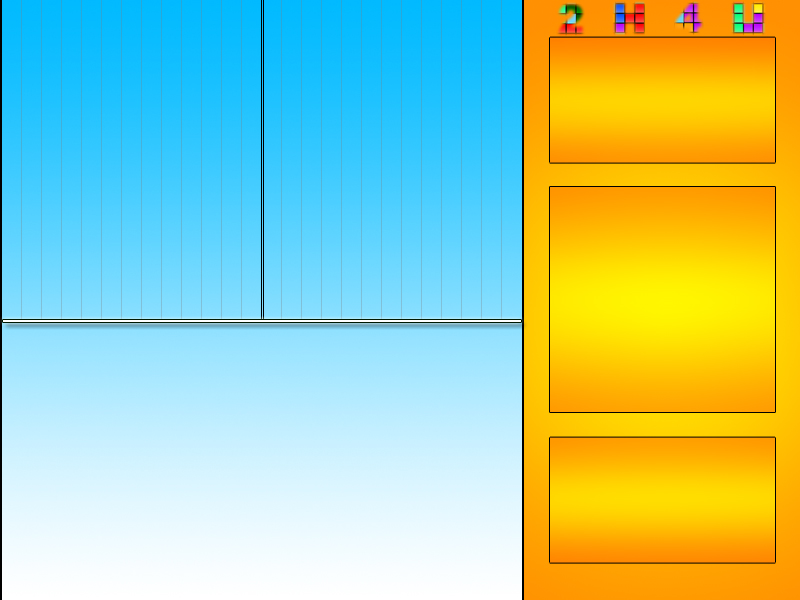
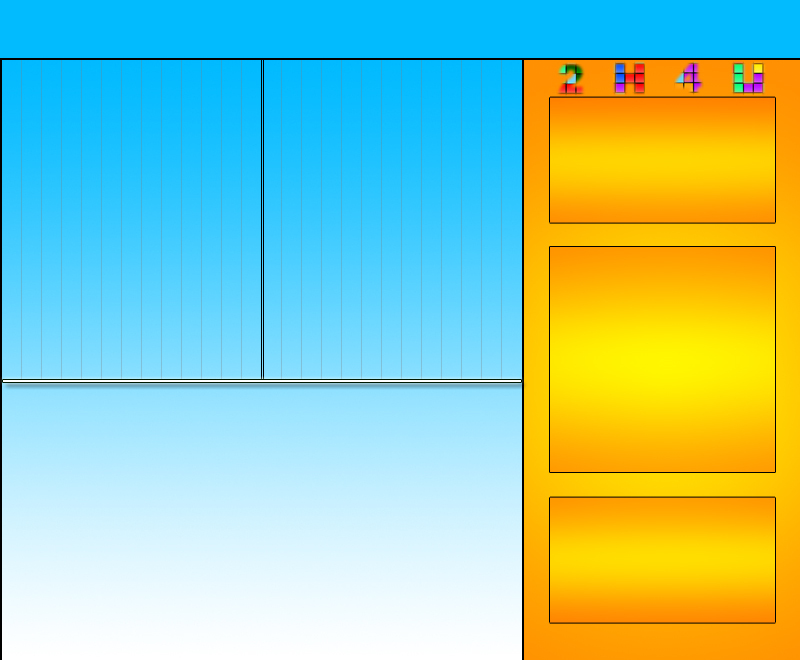
fixing stuff regarding the board size

diff --git a/toohardforyou-core/src/main/java/info/piwai/toohardforyou/core/TooHardForYouEngine.java b/toohardforyou-core/src/main/java/info/piwai/toohardforyou/core/TooHardForYouEngine.java
@@ -83,12 +83,12 @@ public class TooHardForYouEngine implements GameScreen, Pointer.Listener, Listen
 
         Image pauseImage = assetManager().getImage(Resources.BACKGROUND_IMG);
         pauseLayer = graphics().createImageLayer(pauseImage);
-        pauseLayer.setTranslation(0, Constants.BOARD_OFFSET_Y);
+        pauseLayer.setTranslation(0, 0);
 
         graphics().setSize(Constants.BOARD_PIXEL_WIDTH, Constants.BOARD_PIXEL_HEIGHT);
 
         GroupLayer worldlayer = buildWorldLayer();
-        Vec2 gravity = new Vec2(0.0f, 0.1f);
+        Vec2 gravity = new Vec2(0.0f, 0.0f);
         entityEngine = new EntityEngine(worldlayer, gravity, Constants.BOARD_WIDTH, Constants.BOARD_HEIGHT, Constants.PHYS_UNIT_PER_SCREEN_UNIT, Constants.DEBUG_DRAW);
 
         uiTexts = new UiTexts();
@@ -118,16 +118,16 @@ public class TooHardForYouEngine implements GameScreen, Pointer.Listener, Listen
         // create the ceil
         Body ceil = world.createBody(new BodyDef());
         PolygonShape ceilShape = new PolygonShape();
-        ceilShape.setAsEdge(new Vec2(0, 0), new Vec2(Constants.GAME_WIDTH, 0));
+        ceilShape.setAsEdge(new Vec2(Constants.BOARD_LEFT, Constants.BOARD_TOP), new Vec2(Constants.BOARD_RIGHT, Constants.BOARD_TOP));
         ceil.createFixture(ceilShape, 0.0f);
         // create the walls
         Body wallLeft = world.createBody(new BodyDef());
         PolygonShape wallLeftShape = new PolygonShape();
-        wallLeftShape.setAsEdge(new Vec2(0, 0), new Vec2(0, Constants.GAME_HEIGHT));
+        wallLeftShape.setAsEdge(new Vec2(Constants.BOARD_LEFT, Constants.BOARD_TOP), new Vec2(Constants.BOARD_LEFT, Constants.BOARD_BOTTOM));
         wallLeft.createFixture(wallLeftShape, 0.0f);
         Body wallRight = world.createBody(new BodyDef());
         PolygonShape wallRightShape = new PolygonShape();
-        wallRightShape.setAsEdge(new Vec2(Constants.GAME_WIDTH, 0), new Vec2(Constants.GAME_WIDTH, Constants.GAME_HEIGHT));
+        wallRightShape.setAsEdge(new Vec2(Constants.BOARD_RIGHT, Constants.BOARD_TOP), new Vec2(Constants.BOARD_RIGHT, Constants.BOARD_BOTTOM));
         wallRight.createFixture(wallRightShape, 0f);
     }
 
@@ -197,10 +197,10 @@ public class TooHardForYouEngine implements GameScreen, Pointer.Listener, Listen
     private GroupLayer buildWorldLayer() {
         Image backgroundImage = assetManager().getImage(Resources.BACKGROUND_IMG);
         ImageLayer backgroundLayer = graphics().createImageLayer(backgroundImage);
-        backgroundLayer.setTranslation(0, Constants.BOARD_OFFSET_Y);
+        backgroundLayer.setTranslation(0, 0);
         graphics().rootLayer().add(backgroundLayer);
         GroupLayer worldLayer = graphics().createGroupLayer();
-        worldLayer.setTranslation(Constants.BOARD_OFFSET_X, Constants.BOARD_OFFSET_Y);
+//        worldLayer.setTranslation(Constants.BOARD_OFFSET_X, Constants.BOARD_OFFSET_Y);
         worldLayer.setScale(1f / Constants.PHYS_UNIT_PER_SCREEN_UNIT);
         graphics().rootLayer().add(worldLayer);
         return worldLayer;
@@ -209,9 +209,9 @@ public class TooHardForYouEngine implements GameScreen, Pointer.Listener, Listen
     @Override
     public void update(float delta) {
         if (!paused) {
+            piece.update(delta);
             entityEngine.update(delta);
             GameTimer.update(delta);
-            piece.update(delta);
         }
     }
 

diff --git a/toohardforyou-core/src/main/java/info/piwai/toohardforyou/core/Constants.java b/toohardforyou-core/src/main/java/info/piwai/toohardforyou/core/Constants.java
@@ -26,8 +26,16 @@ public abstract class Constants {
     public static final float GAME_WIDTH = 520 * PHYS_UNIT_PER_SCREEN_UNIT;
     public static final float GAME_HEIGHT = 600 * PHYS_UNIT_PER_SCREEN_UNIT;
     
-    public static final float BOARD_OFFSET_X = 2;
-    public static final float BOARD_OFFSET_Y = 60;
+    public static final float BOARD_OFFSET_PIXEL_X = 2;
+    public static final float BOARD_OFFSET_PIXEL_Y = 60;
+    
+    public static final float BOARD_LEFT = BOARD_OFFSET_PIXEL_X * PHYS_UNIT_PER_SCREEN_UNIT;
+    public static final float BOARD_TOP = BOARD_OFFSET_PIXEL_Y * PHYS_UNIT_PER_SCREEN_UNIT;
+    
+    public static final float BOARD_RIGHT = BOARD_LEFT + GAME_WIDTH;
+    
+    public static final float BOARD_BOTTOM = BOARD_TOP + GAME_HEIGHT;
+
     
     public static final int BOARD_PIXEL_WIDTH = 800;
     public static final int BOARD_PIXEL_HEIGHT = 660;

diff --git a/toohardforyou-core/src/main/java/info/piwai/toohardforyou/core/paddle/Paddle.java b/toohardforyou-core/src/main/java/info/piwai/toohardforyou/core/paddle/Paddle.java
@@ -65,14 +65,14 @@ public class Paddle extends DynamicPhysicsEntity {
 
     public Paddle(EntityEngine entityEngine) {
         super(entityEngine, IMAGE, 0, 0, 0);
-        maxX = Constants.GAME_WIDTH - getWidth() / 2;
-        minX = getWidth() / 2;
+        maxX = Constants.BOARD_RIGHT - getWidth() / 2;
+        minX = Constants.BOARD_LEFT + getWidth() / 2;
         resetPosition();
     }
 
     public void resetPosition() {
-        top = Constants.GAME_HEIGHT - (getHeight() / 2);
-        left = Constants.GAME_WIDTH / 2;
+        top = Constants.BOARD_BOTTOM - (getHeight() / 2);
+        left = Constants.BOARD_LEFT + Constants.GAME_WIDTH / 2;
         setPos(left, top);
     }
 

diff --git a/toohardforyou-core/src/main/java/info/piwai/toohardforyou/core/brick/Brick.java b/toohardforyou-core/src/main/java/info/piwai/toohardforyou/core/brick/Brick.java
@@ -37,11 +37,11 @@ public class Brick implements BrokenListener {
     }
     
     private float convertX(int wallX) {
-        return Constants.BRICK_WIDTH / 2 + wallX * Constants.BRICK_WIDTH;
+        return Constants.BOARD_LEFT + Constants.BRICK_WIDTH / 2 + wallX * Constants.BRICK_WIDTH;
     }
 
     private float convertY(int wallY) {
-        return Constants.BRICK_HEIGHT / 2 + wallY * Constants.BRICK_HEIGHT;
+        return Constants.BOARD_TOP + Constants.BRICK_HEIGHT / 2 + wallY * Constants.BRICK_HEIGHT;
     }
     
     public void setPos(int wallX, int wallY) {

diff --git a/toohardforyou-core/src/main/java/info/piwai/toohardforyou/core/ball/Ball.java b/toohardforyou-core/src/main/java/info/piwai/toohardforyou/core/ball/Ball.java
@@ -32,7 +32,7 @@ public class Ball extends DynamicPhysicsEntity {
 
     private static final float BALL_RADIUS = 10 * Constants.PHYS_UNIT_PER_SCREEN_UNIT;
 
-    private static final float MAX_POS_Y = Constants.GAME_HEIGHT + BALL_RADIUS;
+    private static final float MAX_POS_Y = Constants.BOARD_BOTTOM + BALL_RADIUS;
 
     private static final float BALL_DIAMETER = 2 * BALL_RADIUS;
 
